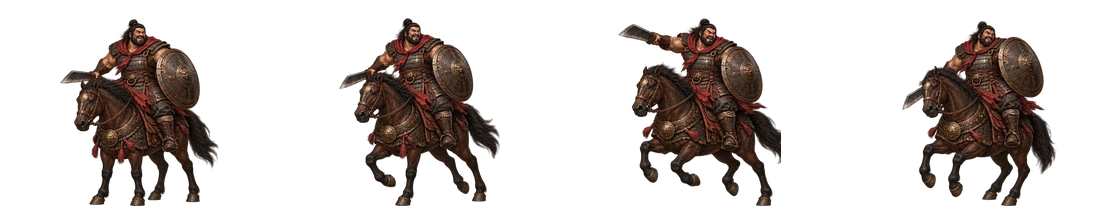
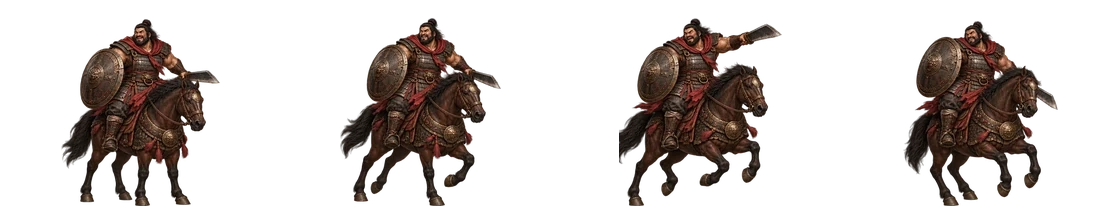
기병 장수 6명 시트 좌우 맞춤: 오른쪽 기준으로 뒤집어 적일 때 아군을 보게
Claude-Session: https://claude.ai/code/session_01MpPPA45aaRsErGnvA66if3

diff --git a/docs/tech/지속개발-현황.md b/docs/tech/지속개발-현황.md
@@ -1618,7 +1618,7 @@ npm run dev → http://127.0.0.1:5173. Windows 대괄호 경로는 PowerShell -L
 - Codex가 sama 저장소 `codex/officer-portraits` 브랜치(옛 코드 기반)에 올린 그림을 이 게임으로 옮겼다. 코드는 옛 코드에 맞춘 것이라 가져오지 않고, 그림만 지금 구조에 연결했다.
 - 전투 원화 28명(가후·우금·악진·등애·종회·학소·조홍·조창·문빙·관평·마대·서성·정봉·안량·문추·저수·전풍·심배·한신·장량·소하·영포·팽월·번쾌·진평·범증·종리매·계포): 512×512 한 장 원화를 384칸 네 칸 시트(대기·준비·공격·피격, 발끝 축 기울기)로 펼쳐 `public/officers/<id>-battle-v1.webp`에 두고 `officerManifest`·`manifest.json`·`OFFICER_FACTION`에 등록. 전장·일기토·설전에서 전용 모습으로 보인다.
 - 초상: 장비 새 초상(`zhang-fei.webp`), 허저·맹달 초상 교체(출처 기록 없던 옛 그림 대신 새로 그린 것). 2.5MB PNG를 600×600 webp로 줄였다.
-- 남은 점: 조창·안량·문추·영포·번쾌·종리매는 게임에서 기병인데 원화가 걸어서 싸우는 모습이다.
+- 기병 6명(조창·안량·문추·영포·번쾌·종리매): Codex가 말 탄 4칸 시트(`<id>-battle-cavalry-v1.webp`, 280×224)로 바꿨다(2405431). 시트가 왼쪽을 보고 있어 적으로 나오면 등을 보였으므로(게임 그림은 오른쪽을 보는 것이 기준이고 적은 뒤집는다) 칸마다 좌우를 뒤집었다. 진화표 장수 칸이 장수 전용 시트를 못 찾아 그림이 비던 것도 이 커밋에서 고쳐졌다.
 
 ## 규칙판 10 — 모든 이름있는 장수는 병종 특성 + 고유특성
 
